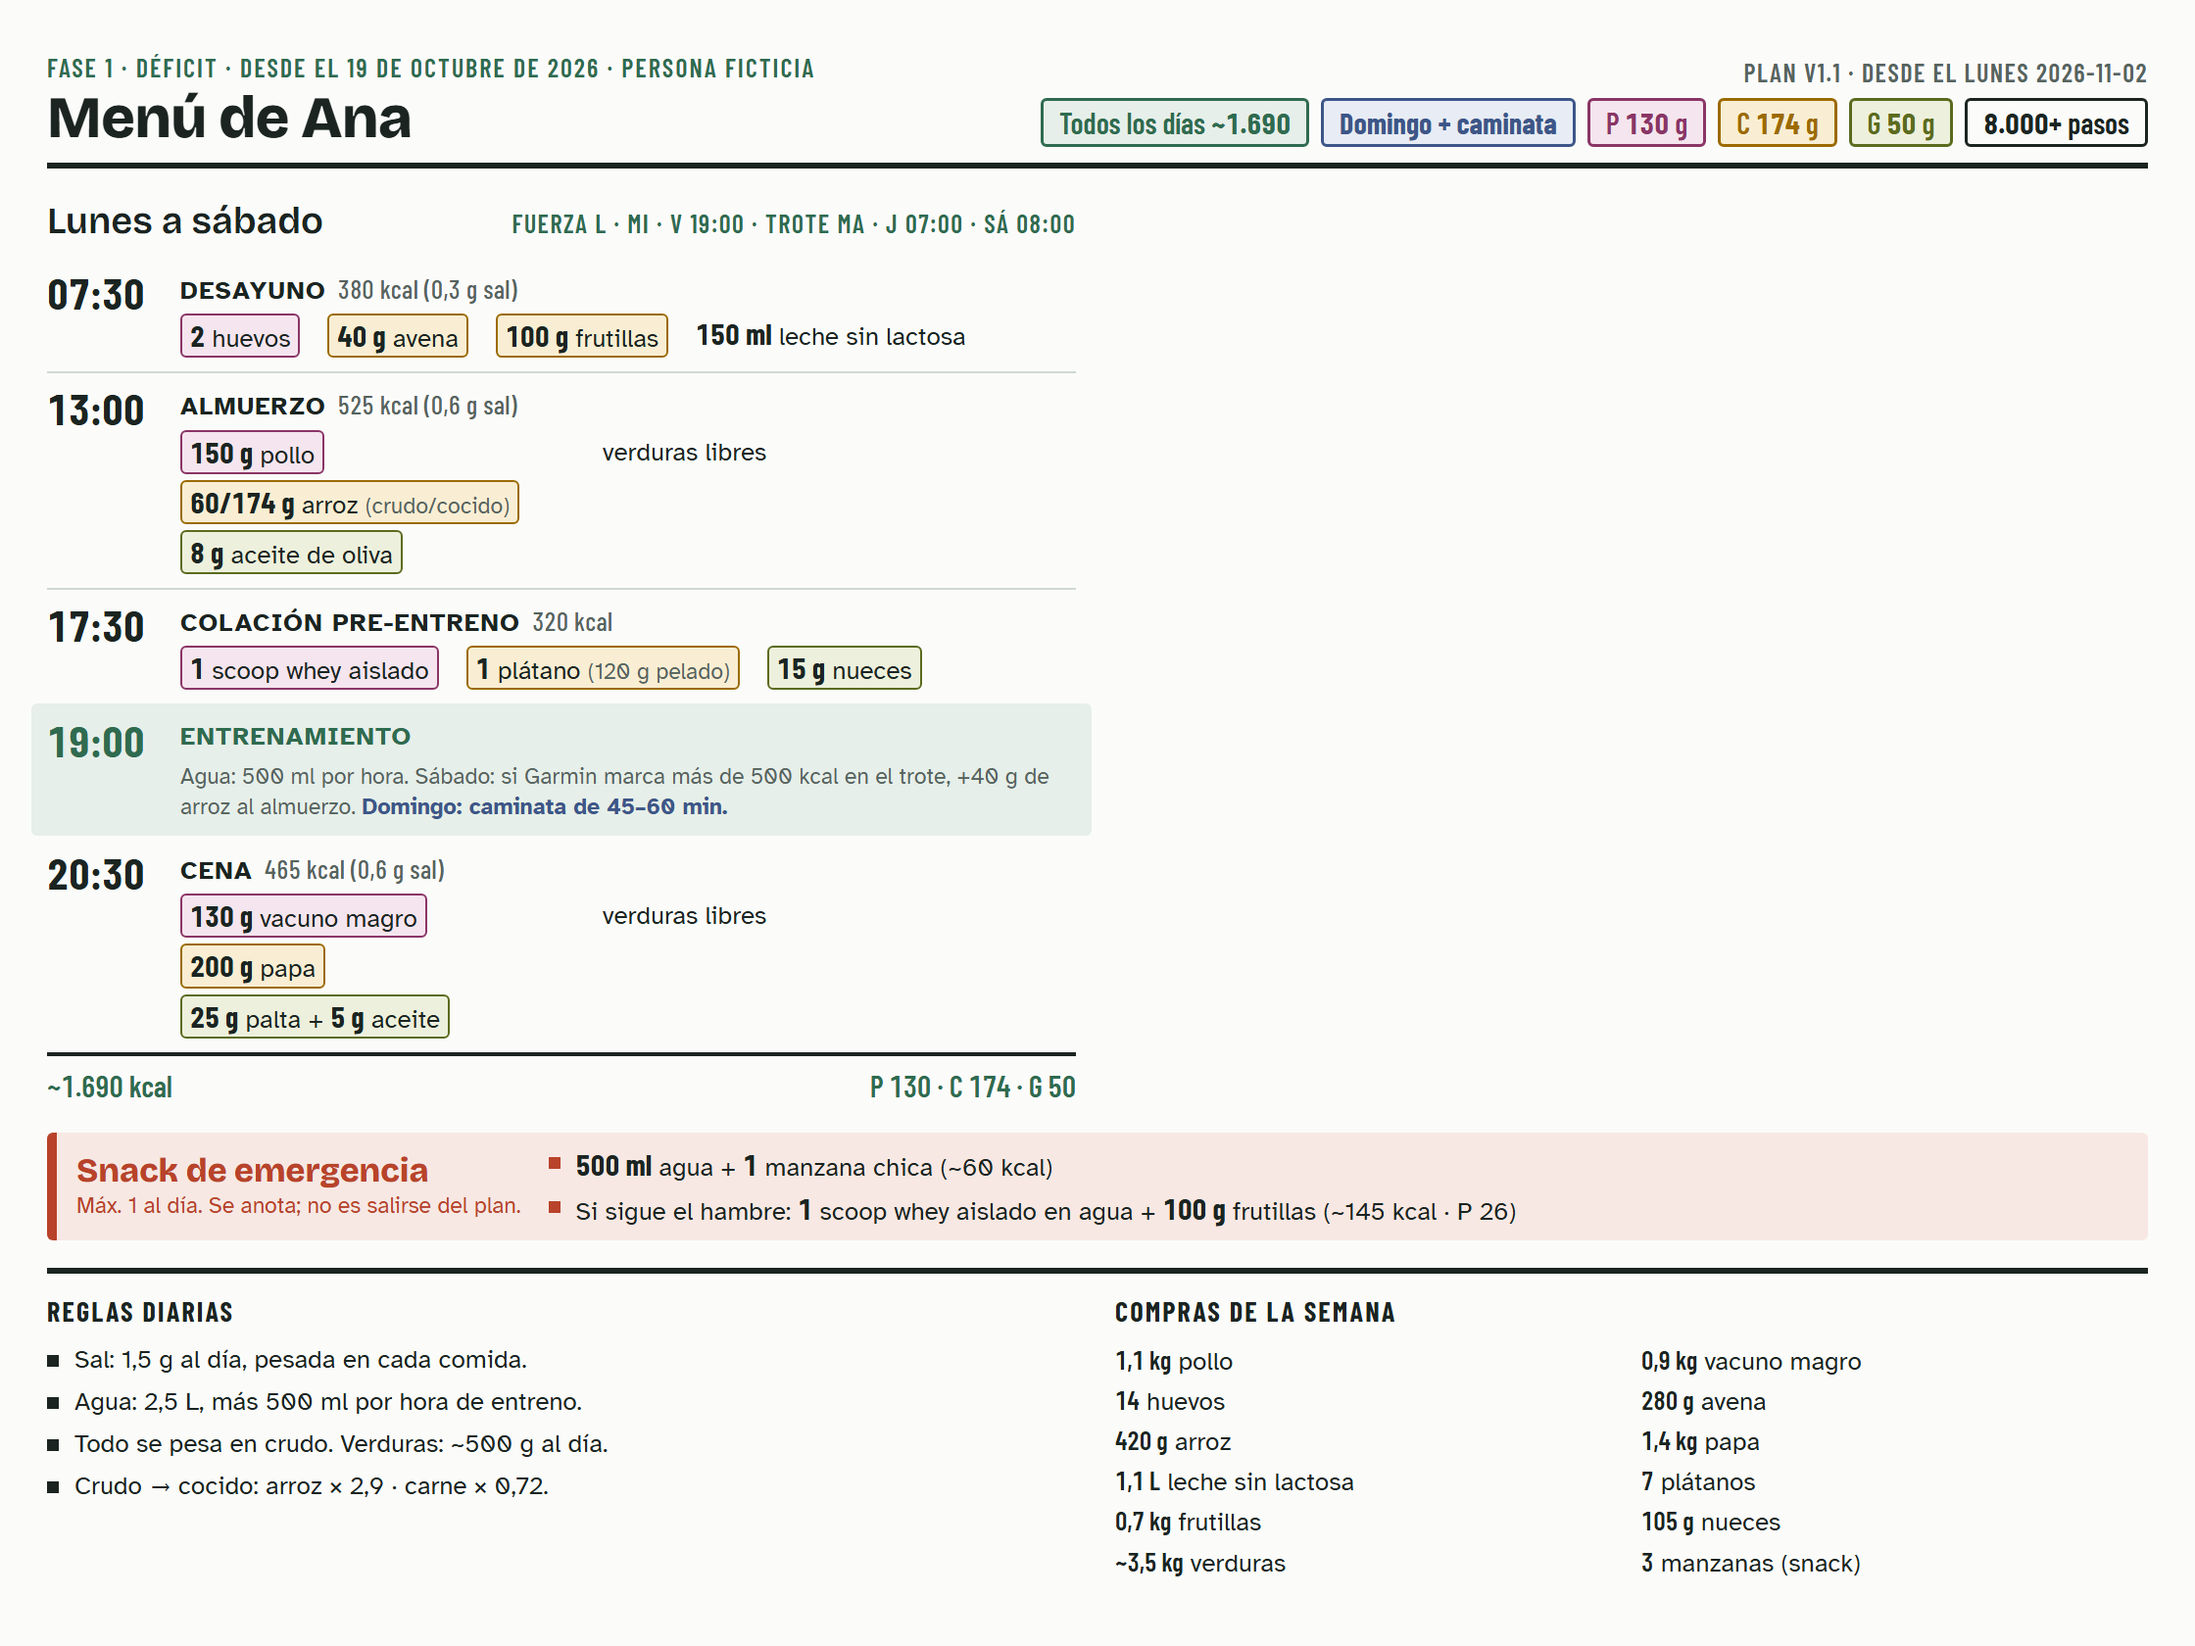
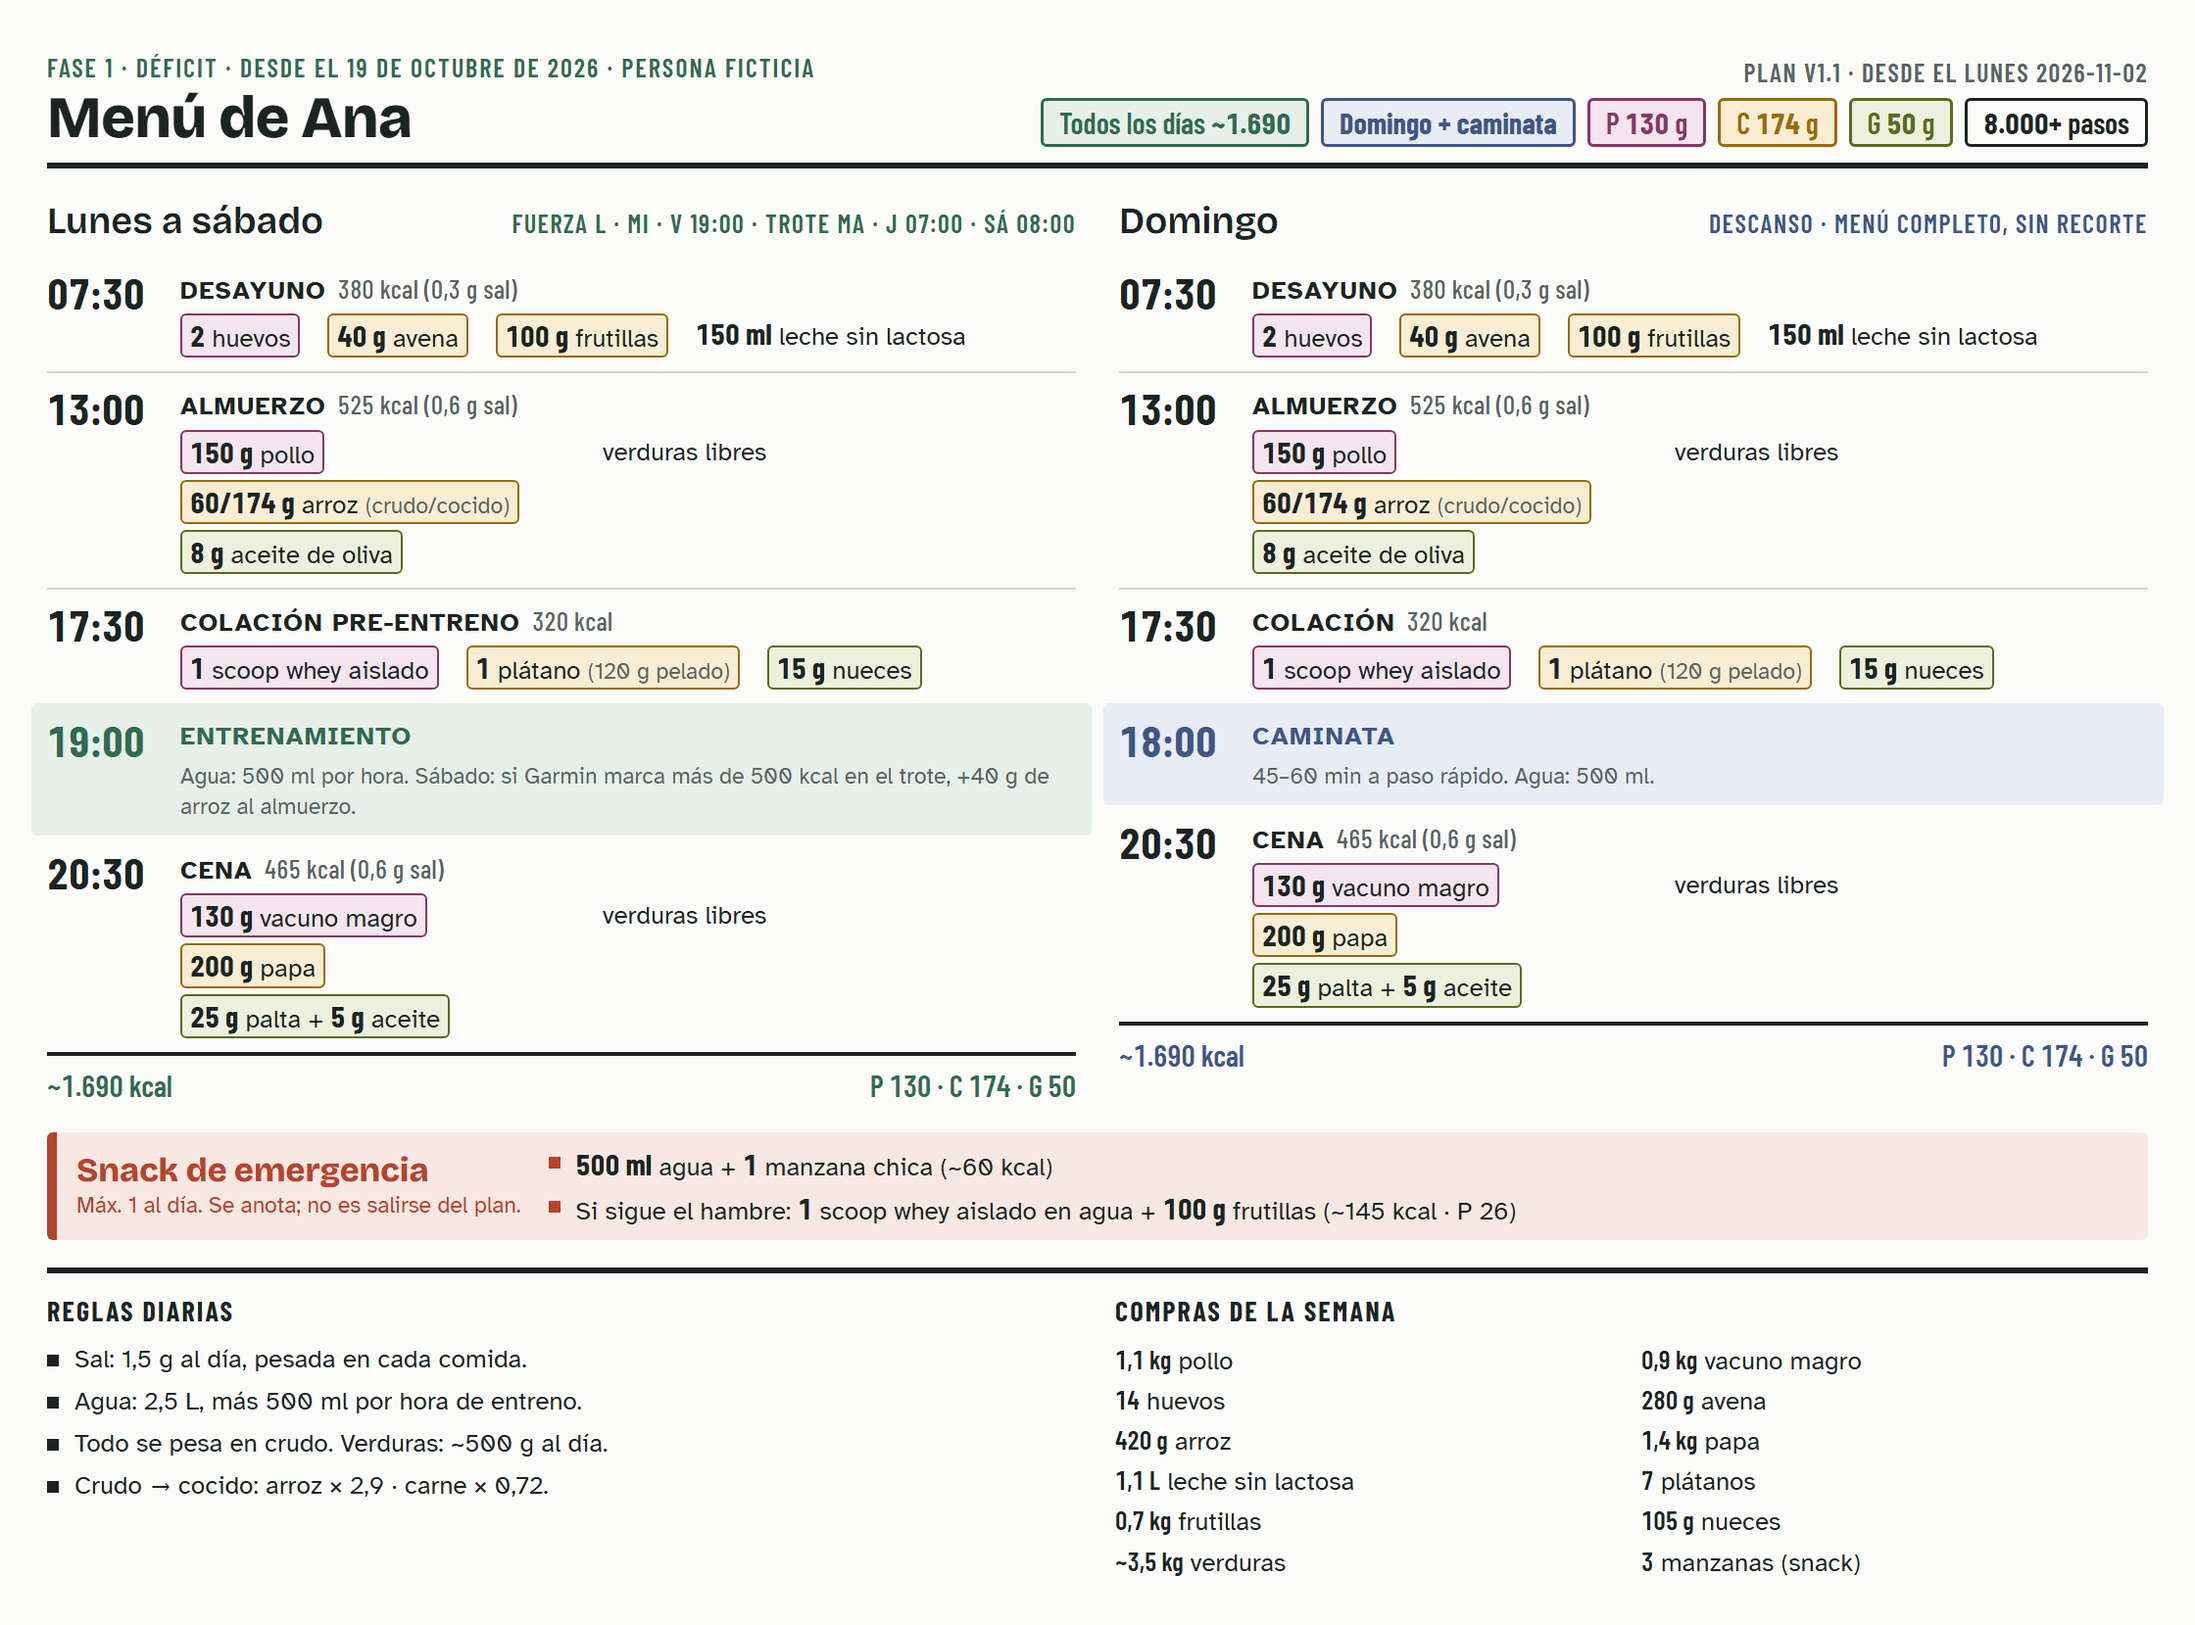
Example menu: add the Sunday column

diff --git a/ejemplo/imprimir/menu-refrigerador.html b/ejemplo/imprimir/menu-refrigerador.html
@@ -283,6 +283,9 @@
   .targets .sw-key.c { border-color: var(--carb); color: var(--carb); background: var(--carb-soft); }
   .targets .sw-key.f { border-color: var(--fat); color: var(--fat); background: var(--fat-soft); }
   .day h2 em.train { color: var(--herb); }
+  .day h2 em.rest { color: var(--rest); }
+  .meal.walk .time, .meal.walk h3 { color: var(--rest); }
+  .meal.walk { background: var(--rest-soft); }
   .total span:nth-child(even) { text-align: right; }
   .snack {
     display: grid;
@@ -506,7 +509,7 @@
           <div class="time">19:00</div>
           <div>
             <h3>Entrenamiento</h3>
-            <p class="note">Agua: 500 ml por hora. Sábado: si Garmin marca más de 500 kcal en el trote, +40 g de arroz al almuerzo. <span class="rest-txt">Domingo: caminata de 45–60 min.</span></p>
+            <p class="note">Agua: 500 ml por hora. Sábado: si Garmin marca más de 500 kcal en el trote, +40 g de arroz al almuerzo.</p>
           </div>
         </li>
         <li class="meal">
@@ -523,6 +526,66 @@
         </li>
       </ol>
       <div class="total"><span class="train">~1.690 kcal</span><span class="train">P 130 · C 174 · G 50</span></div>
+    </section>
+    <section class="day">
+      <h2>Domingo <em class="rest">Descanso · menú completo, sin recorte</em></h2>
+      <ol class="meals">
+        <li class="meal">
+          <div class="time">07:30</div>
+          <div>
+            <h3>Desayuno<span class="kcal">380 kcal (0,3 g sal)</span></h3>
+            <ul class="items">
+              <li class="sw p"><b>2</b> huevos</li>
+              <li class="sw c"><b>40 g</b> avena</li>
+              <li class="sw c"><b>100 g</b> frutillas</li>
+              <li><b>150 ml</b> leche sin lactosa</li>
+            </ul>
+          </div>
+        </li>
+        <li class="meal">
+          <div class="time">13:00</div>
+          <div>
+            <h3>Almuerzo<span class="kcal">525 kcal (0,6 g sal)</span></h3>
+            <ul class="items plate">
+              <li class="sw p"><b>150 g</b> pollo</li>
+              <li class="sw c"><b>60/174 g</b> arroz <span class="eq">(crudo/cocido)</span></li>
+              <li class="sw f"><b>8 g</b> aceite de oliva</li>
+              <li>verduras libres</li>
+            </ul>
+          </div>
+        </li>
+        <li class="meal shake">
+          <div class="time">17:30</div>
+          <div>
+            <h3>Colación<span class="kcal">320 kcal</span></h3>
+            <ul class="items">
+              <li class="sw p"><b>1</b> scoop whey aislado</li>
+              <li class="sw c"><b>1</b> plátano <span class="eq">(120 g pelado)</span></li>
+              <li class="sw f"><b>15 g</b> nueces</li>
+            </ul>
+          </div>
+        </li>
+        <li class="meal activity walk">
+          <div class="time">18:00</div>
+          <div>
+            <h3>Caminata</h3>
+            <p class="note">45–60 min a paso rápido. Agua: 500 ml.</p>
+          </div>
+        </li>
+        <li class="meal">
+          <div class="time">20:30</div>
+          <div>
+            <h3>Cena<span class="kcal">465 kcal (0,6 g sal)</span></h3>
+            <ul class="items plate">
+              <li class="sw p"><b>130 g</b> vacuno magro</li>
+              <li class="sw c"><b>200 g</b> papa</li>
+              <li class="sw f"><b>25 g</b> palta + <b>5 g</b> aceite</li>
+              <li>verduras libres</li>
+            </ul>
+          </div>
+        </li>
+      </ol>
+      <div class="total"><span class="rest">~1.690 kcal</span><span class="rest">P 130 · C 174 · G 50</span></div>
     </section>
   </div>
 
